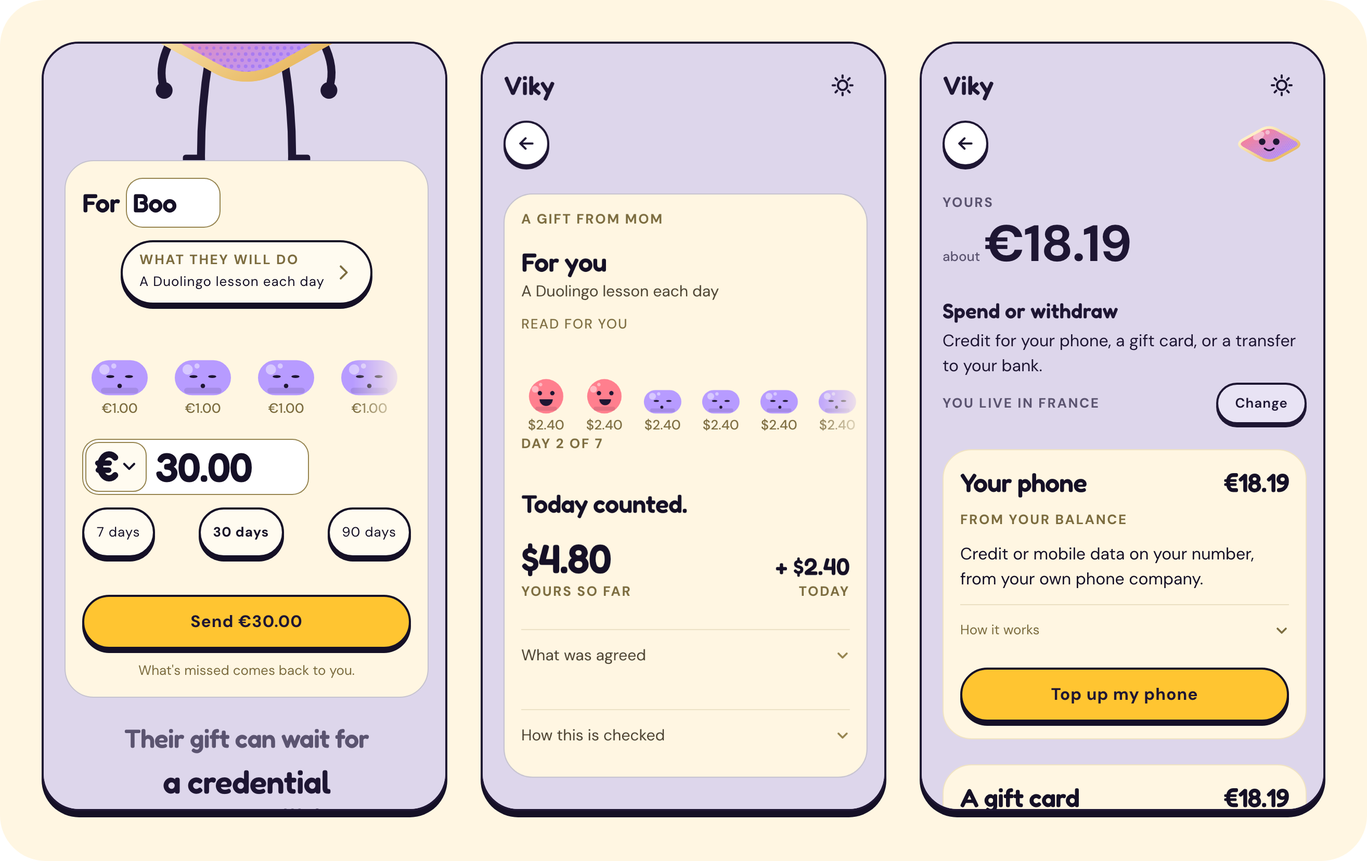
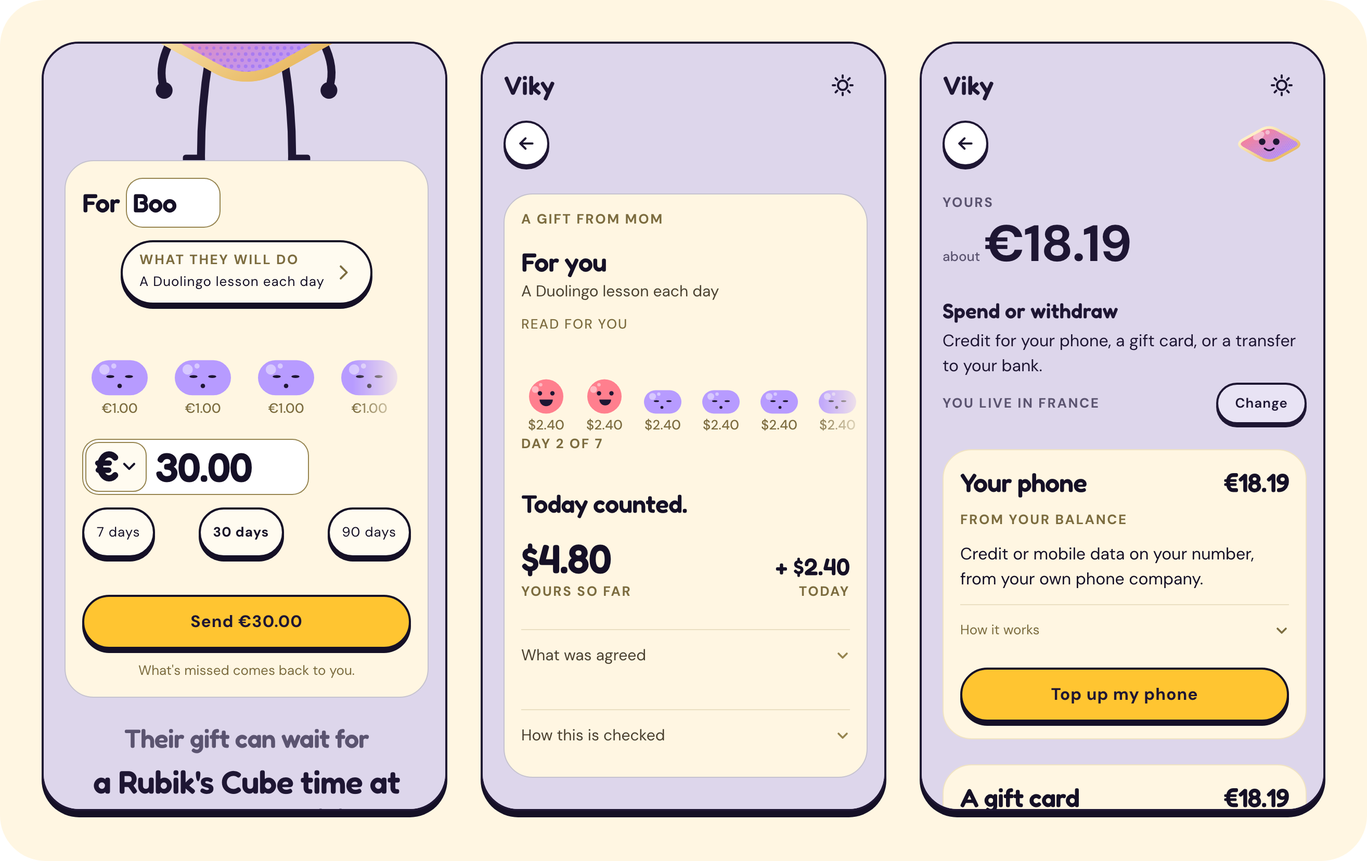
Name no account and no person in notes and live scripts, cite this history's own commits, and photograph the README's screens again

diff --git a/scripts/check-sources.ts b/scripts/check-sources.ts
@@ -27,11 +27,12 @@ import { listWcaCompetitions, readWcaCompetition, readWcaResult } from "../src/w
  *
  * It moves no money, signs nothing and needs no secret. It reads public pages as the app does, naming itself.
  *
- * The accounts that exist: this file names only public profiles this repository already names. A source whose only
- * real pages are one person's own certificate takes its sample from `private-fixtures/check-sources.json`, which is
- * never committed (`{ "det": "<certificate id>", "edx": "...", "mitx": "...", "credly": "...", "accredible": "...",
- * "coursera": "...", "breizh": "<event|heat|bib>", "raceresult": "<event|contest|bib>" }`); without one, that
- * source's `reads` and `patterns` are skipped and said so, and its `refuses` still runs.
+ * The accounts that exist: this file names nobody. Every source takes its sample from
+ * `private-fixtures/check-sources.json`, which is never committed (`{ "chess": "<name>", "codeforces": "<handle>",
+ * "duolingo": "<name>", "wca": "<competition|event|WCA ID>", "det": "<certificate id>", "edx": "...", "mitx": "...",
+ * "credly": "...", "accredible": "...", "coursera": "...", "breizh": "<event|heat|bib>",
+ * "raceresult": "<event|contest|bib>" }`); without one, that source's `reads` and `patterns` are skipped and said
+ * so, and its `refuses` still runs.
  *
  * Usage: pnpm check:sources            every source
  *        pnpm check:sources chess,wca  some of them
@@ -115,34 +116,39 @@ const wants = (name: string) => !asked || asked.includes(name);
 
 async function main() {
   if (wants("chess")) {
-    // Public profiles this repository already names (src/chess-com.ts, src/chess-reading.ts).
-    for (const climb of ["rapid", "blitz", "bullet", "daily", "tactics"] as const) {
-      await reads("chess", `ama_plays's ${climb} standing`, () => readChessStanding("ama_plays", climb));
-      await sleep(400);
-    }
+    if (samples.chess) {
+      for (const climb of ["rapid", "blitz", "bullet", "daily", "tactics"] as const) {
+        await reads("chess", `a player's ${climb} standing`, () => readChessStanding(samples.chess, climb));
+        await sleep(400);
+      }
+      await patterns("chess-profile", samples.chess);
+      await patterns("chess-player", samples.chess);
+      for (const mode of ["rapid", "blitz", "bullet", "daily"]) await patterns(`chess-ratings-${mode}`, samples.chess);
+      await patterns("chess-tactics", samples.chess);
+    } else skip("chess", "reads and patterns");
     await refuses("chess", "a player nobody is", ["PROFILE_NOT_FOUND"], () => readChessStanding("zzqxnobody12345", "rapid"));
-    await patterns("chess-profile", "ama_plays", "ama_plays");
-    await patterns("chess-player", "ama_plays", "ama_plays");
-    for (const mode of ["rapid", "blitz", "bullet", "daily"]) await patterns(`chess-ratings-${mode}`, "ama_plays", "ama_plays");
-    await patterns("chess-tactics", "ama_plays", "ama_plays");
   }
   if (wants("codeforces")) {
-    await reads("codeforces", "ada_codes's standing", () => readCodeforcesStanding("ada_codes"));
-    await sleep(2_200);
+    if (samples.codeforces) {
+      await reads("codeforces", "a handle's standing", () => readCodeforcesStanding(samples.codeforces));
+      await sleep(2_200);
+      await patterns("codeforces-user", samples.codeforces);
+      await sleep(2_200);
+      await patterns("codeforces-user-named", samples.codeforces);
+      await sleep(2_200);
+    } else skip("codeforces", "reads and patterns");
     await refuses("codeforces", "a handle nobody has", ["PROFILE_NOT_FOUND"], () => readCodeforcesStanding("zzqxnobody12345"));
-    await sleep(2_200);
-    await patterns("codeforces-user", "ada_codes", "ada_codes");
-    await sleep(2_200);
-    await patterns("codeforces-user-named", "ada_codes", "ada_codes");
   }
   if (wants("duolingo")) {
-    await reads("duolingo", "zia_learns's public profile", async () => {
-      const profile = await resolvePublicDuolingoProfile("Zia_learns");
-      if (!profile) throw new Error("no profile answered for a name that exists");
-      return profile;
-    });
+    if (samples.duolingo) {
+      await reads("duolingo", "a public profile", async () => {
+        const profile = await resolvePublicDuolingoProfile(samples.duolingo);
+        if (!profile) throw new Error("no profile answered for a name that exists");
+        return profile;
+      });
+      await patterns("duolingo-profile", samples.duolingo);
+    } else skip("duolingo", "reads and patterns");
     await refuses("duolingo", "a name nobody has", ["NO_SUCH_PROFILE"], () => resolvePublicDuolingoProfile("zzqx-nobody-12345"));
-    await patterns("duolingo-profile", "Zia_learns", "Zia_learns");
   }
   if (wants("det")) {
     if (samples.det) {
@@ -189,10 +195,13 @@ async function main() {
     await refuses("accredible", "a credential nobody holds", ["NO_CERTIFICATE", "INVALID_LINK"], () => readAccredibleCredential("00000000-0000-4000-8000-000000000000"));
   }
   if (wants("wca")) {
-    // The competition and the result this repository's own source description was measured on (src/attested-sources.ts).
-    await reads("wca", "a competition", () => readWcaCompetition("SaintSymphorienSpeedcubing2026"));
-    await reads("wca", "a result at it", () => readWcaResult("SaintSymphorienSpeedcubing2026/333", "2019EXEM04"));
-    await patterns("wca-person-results", "2019EXEM04|SaintSymphorienSpeedcubing2026|333|f", "that result");
+    // A competition, an event and somebody who took part in it, as the sample writes them: "<competition>|<event>|<WCA ID>".
+    const [competition, event, cuber] = (samples.wca ?? "").split("|");
+    if (competition && event && cuber) {
+      await reads("wca", "a competition", () => readWcaCompetition(competition));
+      await reads("wca", "a result at it", () => readWcaResult(`${competition}/${event}`, cuber));
+      await patterns("wca-person-results", `${cuber}|${competition}|${event}|f`, "that result");
+    } else skip("wca", "reads and patterns of a result");
     await reads("wca", "the competitions to come", async () => {
       const coming = await listWcaCompetitions(new Date().toISOString().slice(0, 10));
       if (coming.length === 0) throw new Error("the list of coming competitions is empty");

diff --git a/test/chess-reading.test.ts b/test/chess-reading.test.ts
@@ -86,7 +86,7 @@ test("a proof about another page, another name, or taken far from its other half
 });
 
 test("zkFetch's refusals, as measured, become the right typed refusal", async () => {
-  // The three messages read on 17 Sep 2026 against uma_plays, an unknown name, and uma_plays's blitz.
+  // The three messages read on 17 Sep 2026 against an account that exists, an unknown name, and that account's blitz.
   const notFound = "protocol terminated with error: HTTP response status 404 is not a success status: received HTTP 404, expected 2xx";
   const noName = `attestor submission failed: failed to submit TEE bundle: failed to send request: RPC request failed: Invalid receipt. Regex "${CHESS_PROFILE.matches[2].value}" didn't match (code: 1)`;
   const noBlitz = `attestor submission failed: failed to submit TEE bundle: failed to send request: RPC request failed: Invalid receipt. Regex "${chessRatingPattern("blitz")}" didn't match (code: 1)`;
@@ -133,7 +133,7 @@ test("the plain read answers who and where, and says which failure it met", asyn
     "https://api.chess.com/pub/player/uma_plays/stats": { status: 200, body: { chess_rapid: { last: { rating: 1705, date: 1775022187 } }, fide: 0 } },
     "https://api.chess.com/pub/player/nobody-zz9": { status: 404, body: { code: 0, message: "User not found." } },
     "https://api.chess.com/pub/player/flaky-zz9": { status: 200, body: { player_id: 7, username: "flaky-zz9", status: "premium" } },
-    // Measured on 18 Sep 2026: ivo_plays answers 200 with status "closed", and its ratings page answers as any other.
+    // Measured on 18 Sep 2026: a closed account answers 200 with status "closed", and its ratings page answers as any other.
     "https://api.chess.com/pub/player/ivo_plays": { status: 200, body: { player_id: 990000000002, username: "ivo_plays", status: "closed" } },
     "https://api.chess.com/pub/player/ivo_plays/stats": { status: 200, body: { chess_rapid: { last: { rating: 990, date: 1620668644, rd: 105 } } } },
     "https://api.chess.com/pub/player/unfair-zz9": { status: 200, body: { player_id: 5, username: "unfair-zz9", status: "closed:fair_play_violations" } },
@@ -161,7 +161,7 @@ test("the plain read answers who and where, and says which failure it met", asyn
 test("an account Chess.com has closed is refused, and a profile without a status is a reading that failed on our side", async () => {
   // Chess.com documents six values for `status` ("closed, closed:fair_play_violations, basic, premium, mod, staff") and
   // its Fair Play policy says it may "close your account and label it publicly closed for Fair Play violations".
-  // Measured on 18 Sep 2026: ama_plays premium, yan_plays staff, SevyB basic, ivo_plays closed.
+  // Measured on 18 Sep 2026 on four accounts: one premium, one staff, one basic, one closed.
   assert.equal(accountIsClosed("basic"), false);
   assert.equal(accountIsClosed("premium"), false);
   assert.equal(accountIsClosed("staff"), false);
@@ -238,7 +238,7 @@ test("the register's name check is Chess.com's own rule, and the milestone half 
 
 test("a rating has settled below the RD measured on 17 Sep 2026, and not at it, nor without an RD (D90)", () => {
   assert.equal(CHESS_SETTLED_RD_BELOW, 60);
-  // Low: ama_plays's blitz, 31. High: a new account, 350 as Chess.com starts one; uma_plays's rapid, 197. None: never played.
+  // Low: a much played blitz, 31. High: a new account, 350 as Chess.com starts one; a little played rapid, 197. None: never played.
   assert.equal(ratingHasSettled(31), true);
   assert.equal(ratingHasSettled(59), true);
   assert.equal(ratingHasSettled(60), false);

diff --git a/src/chess-com.ts b/src/chess-com.ts
@@ -11,7 +11,7 @@ import { keccak256, stringToHex, type Hex } from "viem";
  *   name is the field a person edits, so it is where a binding code goes, as on Duolingo. `player_id` does not change
  *   when a username does, so it is the identity a gift is bound to.
  * - `/pub/player/{name}/stats` carries one block per cadence, `"chess_rapid":{"last":{"rating":1904,"date":...}}`,
- *   in no fixed order (ama_plays's begins with daily, ida_plays's with rapid), and a cadence never played has no
+ *   in no fixed order (one account's begins with daily, another's with rapid), and a cadence never played has no
  *   block at all. So a reading names its cadence in its own pattern; a pattern for "any cadence" returns whichever
  *   comes first, which would let a bullet rating settle a rapid gift.
  * - An unknown name answers 404 with a JSON message. A mixed-case name answers 301 to the lower-case one.
@@ -27,10 +27,10 @@ export function isChessMode(value: unknown): value is ChessMode {
 
 /**
  * The puzzle rating, which is on the same page and is not a cadence: no game is played against anybody, and the
- * number is a person's own record. Measured on 20 Sep 2026 on sevyb, ama_plays, ida_plays and yan_plays: the block is
+ * number is a person's own record. Measured on 20 Sep 2026 on four accounts, the founder's own among them: the block is
  * `"tactics":{"highest":{"rating":2096,"date":1760495253},"lowest":{"rating":1795,"date":...}}`, carrying no `last`
  * and no RD at all. `highest` is the best that account ever reached and never goes down, so the climb it holds is
- * "beat your own record": yan_plays 2096 against a lowest of 1795, ama_plays 2730 held since 2014, ida_plays the 400 an
+ * "beat your own record": one account at 2096 against a lowest of 1795, one at 2730 held since 2014, one at the 400 an
  * account starts at. A person who never solved a puzzle is refused rather than read as nothing.
  */
 export const CHESS_TACTICS = "tactics";
@@ -108,7 +108,7 @@ export function chessClimbPattern(climb: ChessClimb): string {
  * The account's standing with Chess.com itself, which the profile publishes as `status`. Chess.com documents the six
  * values ("closed, closed:fair_play_violations, basic, premium, mod, staff") and its Fair Play policy says what a
  * closed one can mean: "we may close your account and label it publicly closed for Fair Play violations". Measured on
- * 18 Sep 2026: ama_plays premium, ida_plays premium, oda_plays premium, yan_plays staff, SevyB basic, ivo_plays closed.
+ * 18 Sep 2026 on six accounts: three premium, one staff, one basic (the founder's own) and one closed.
  * A closed account still serves its profile and its ratings, so the status is the only thing that says so.
  */
 export function chessStatusPattern(): string {
@@ -216,7 +216,7 @@ export function ratingOfStats(body: unknown, mode: ChessMode): ChessClimbReading
   const { rating, date, rd } = last as Record<string, unknown>;
   if (typeof rating !== "number" || !Number.isSafeInteger(rating) || rating <= 0) return null;
   // `best` is a block of its own beside `last`, and a young account has none: measured on 17 Sep 2026, SevyB had a
-  // rapid rating and no best at all, while ida_plays, uma_plays and sol_plays had one in every cadence they played.
+  // rapid rating and no best at all, while three older accounts had one in every cadence they played.
   const best = (block as Record<string, unknown>).best;
   const bestRating = best && typeof best === "object" ? (best as Record<string, unknown>).rating : undefined;
   return {

diff --git a/test/attested-sources.test.ts b/test/attested-sources.test.ts
@@ -70,14 +70,14 @@ test("the patterns match what those pages actually answer", () => {
   for (const m of CHESS_PLAYER.matches) assert.match(noName, new RegExp(m.value), m.value);
   assert.equal(CHESS_PROFILE.matches.every((m) => new RegExp(m.value).test(noName)), false, "a binding needs a name to hold the code");
 
-  // ivo_plays, an account Chess.com has closed, read on 18 Sep 2026: the same shape, and the status says so (U1).
+  // An account Chess.com has closed, read on 18 Sep 2026: the same shape, and the status says so (U1).
   const closed =
     '{"avatar":"https://images.chesscomfiles.com/uploads/v1/user/0.00000000.200x200o.000000000000.gif","player_id":990000000002,"@id":"https://api.chess.com/pub/player/ivo_plays","url":"https://www.chess.com/member/Ivo_plays","username":"ivo_plays","followers":0,"country":"https://api.chess.com/pub/country/NL","last_online":1620662445,"joined":1462908315,"status":"closed","is_streamer":false,"verified":false,"streaming_platforms":[]}';
   for (const m of CHESS_PLAYER.matches) assert.match(closed, new RegExp(m.value), m.value);
   assert.equal(new RegExp(chessStatusPattern()).exec(closed)?.groups?.status, "closed");
   assert.equal(new RegExp(chessStatusPattern()).exec(chessProfile)?.groups?.status, "staff");
 
-  // ama_plays's page lists daily first, then rapid, bullet and blitz. Each cadence must read its own block.
+  // One account's page lists daily first, then rapid, bullet and blitz. Each cadence must read its own block.
   const chessStats =
     '{"chess_daily":{"last":{"rating":2239,"date":1770563021,"rd":103}},"chess960_daily":{"last":{"rating":1231,"date":1444458214,"rd":230}},"chess_rapid":{"last":{"rating":2838,"date":1786796329,"rd":44}},"chess_bullet":{"last":{"rating":3403,"date":1789235988,"rd":30}},"chess_blitz":{"last":{"rating":3410,"date":1789613471,"rd":31}}}';
   const read = (mode: keyof typeof CHESS_RATINGS) => new RegExp(CHESS_RATINGS[mode].matches[0].value).exec(chessStats)?.groups;

diff --git a/test/chess-tactics.test.ts b/test/chess-tactics.test.ts
@@ -15,13 +15,13 @@ import { SHAPE_CLIMB } from "../src/milestone-protocol";
  * The puzzle record on Chess.com: a climb read from the same page as the ratings, with no cadence to choose and no
  * RD to settle (the founder's line of 20 Sep 2026).
  *
- * Every shape below was measured the same day on api.chess.com, on sevyb, ama_plays, ida_plays and yan_plays. What the
+ * Every shape below was measured the same day on api.chess.com, on four accounts. What the
  * tests are really guarding is the one way this reading could pay the wrong number: the block carries two ratings,
  * the record and the lowest the account ever fell to, and a pattern that could match either would let the second
  * settle a gift made on the first.
  */
 
-/** yan_plays's stats page on 20 Sep 2026, the fragment this reading is about, with what surrounds it on the page. */
+/** One account's stats page on 20 Sep 2026, the fragment this reading is about, with what surrounds it on the page. */
 const YAN_PLAYS =
   '{"chess_daily":{"last":{"rating":1502,"date":1789854578,"rd":63},"best":{"rating":2065,"date":1256228875}},' +
   '"chess_rapid":{"last":{"rating":1904,"date":1764957051,"rd":80}},' +
@@ -58,7 +58,7 @@ function honest(record: Record<string, string> = { rating: "2096", date: "176049
 test("the record is read from the block that holds it, and the lowest rating can never come out instead", () => {
   const pattern = new RegExp(chessTacticsPattern());
   const found = pattern.exec(YAN_PLAYS);
-  assert.equal(found?.groups?.rating, "2096", "the record yan_plays held on 20 Sep 2026");
+  assert.equal(found?.groups?.rating, "2096", "the record that account held on 20 Sep 2026");
   assert.equal(found?.groups?.date, "1760495253");
   // The same page, with the two halves of the block the other way round: a reading anchored on `highest` finds
   // nothing rather than handing over the 1795 the account once fell to.

diff --git a/scripts/measure-chess-rd.ts b/scripts/measure-chess-rd.ts
@@ -7,15 +7,14 @@
  * gives now, and the size of the rating changes over its most recent rated games, read from the monthly game archives
  * (each game carries the player's rating after it). Read only, public pages, one request at a time.
  *
- * Usage: npx tsx scripts/measure-chess-rd.ts [extra usernames...]
+ * Usage: npx tsx scripts/measure-chess-rd.ts [usernames...]
  */
 
 import { CHESS_MODES, type ChessMode } from "../src/chess-com";
 
 const UA = "Viky/1.0 (+https://viky.cash)";
 const API = "https://api.chess.com/pub";
-/** The names read on 17 Sep 2026: players of every level named in D88, then accounts from Luxembourg's public list. */
-const NAMED = ["ama_plays", "ida_plays", "oda_plays", "yan_plays", "john", "abc", "uma_plays"];
+/** Read on 17 Sep 2026: seven accounts of every level, given on the command line, then accounts from Luxembourg's public list. */
 const SAMPLED_FROM_COUNTRY = "LU";
 const SAMPLE_SIZE = 40;
 const RECENT_GAMES = 20;
@@ -90,7 +89,7 @@ async function main() {
   // Every n-th name of the list, so the sample is spread over it and the same on every run.
   const step = Math.max(1, Math.floor(country.length / SAMPLE_SIZE));
   const sampled = country.filter((_, index) => index % step === 0).slice(0, SAMPLE_SIZE);
-  const names = [...NAMED, ...extra, ...sampled];
+  const names = [...extra, ...sampled];
   console.log(`measured ${new Date().toISOString()}, ${names.length} profiles (${sampled.length} from ${SAMPLED_FROM_COUNTRY}'s list of ${country.length})`);
   console.log("username\tjoined\tcadence\tgames\trd\trating\tlast game\tdeltas\tmedian |change|\tmax |change|");
   for (const username of names) {

diff --git a/src/attested-sources.ts b/src/attested-sources.ts
@@ -145,7 +145,7 @@ export const CHESS_PLAYER: AttestedSource = {
 
 /**
  * Chess.com's public ratings, one reading per cadence. The page lists its cadences in no fixed order, so a single
- * pattern for "any cadence" returned whichever came first: `daily` for ama_plays, `rapid` for ida_plays, measured on
+ * pattern for "any cadence" returned whichever came first: `daily` for one account, `rapid` for another, measured on
  * 17 Sep 2026. Each cadence is therefore its own source with its own pattern, and the goal type of a gift names one.
  */
 function chessRatings(mode: ChessMode): AttestedSource {
@@ -450,7 +450,7 @@ export const RACE_RESULT_ROW: AttestedSource = {
 /**
  * A speedcuber's results on the World Cube Association's public API (the founder, 27 Sep 2026: "Set a time at a WCA
  * competition"), measured on Saint Symphorien 2026 on 26 Sep 2026. The account is the person's WCA id, the
- * competition, the event and the round, `2019EXEM04|SaintSymphorienSpeedcubing2026|333|f`: the page is the person's
+ * competition, the event and the round, as `2019EXEM04|SaintSymphorienSpeedcubing2026|333|f` with an id nobody has: the page is the person's
  * own list of results, and the one pattern, built for the account, takes the row of that competition, that event and
  * that round in the order the API prints its keys, with the best single, the average and the name as it prints them
  * (a time in hundredths of a second, -1 for a DNF). The API answers 403 to a bare user agent and 200 to one that

diff --git a/test/milestone-routes.test.ts b/test/milestone-routes.test.ts
@@ -120,7 +120,7 @@ test("the standing route refuses a cadence it does not know before reading anyth
   assert.equal(((await response.json()) as { code: string }).code, "INVALID_MODE");
 });
 
-/** Chess.com's two pages for yan_plays, as the plain read before any relay gets them, with the rapid RD given. */
+/** Chess.com's two pages for one account, as the plain read before any relay gets them, with the rapid RD given. */
 function chessPages(rapid: { rating: number; date: number; rd: number } | null): typeof fetch {
   return (async (input: string | URL | Request) => {
     const url = String(input instanceof Request ? input.url : input);
@@ -132,7 +132,7 @@ function chessPages(rapid: { rating: number; date: number; rd: number } | null):
 
 test("the standing route refuses an account Chess.com has closed, before any money moves (U1)", async () => {
   const realFetch = globalThis.fetch;
-  // Measured on 18 Sep 2026: ivo_plays answers 200 with status "closed", and its ratings page answers as any other.
+  // Measured on 18 Sep 2026: a closed account answers 200 with status "closed", and its ratings page answers as any other.
   globalThis.fetch = (async (input: string | URL | Request) => {
     const url = String(input instanceof Request ? input.url : input);
     if (url === "https://api.chess.com/pub/player/ivo_plays") return new Response(JSON.stringify({ player_id: 990000000002, username: "ivo_plays", status: "closed" }), { status: 200 });

diff --git a/scripts/marathon-rehearse.ts b/scripts/marathon-rehearse.ts
@@ -9,14 +9,15 @@ import { SHAPE_HAVE_OR_NOT } from "../src/milestone-protocol";
  * result, with everything else stood in for. The reading service reads the runner's page through the attested fetch,
  * exactly as production does; the gift, its state and the relay are fakes that print what they would have received.
  *
- *   NAME="Sam Example" BIB=900347 RACE=dakar-2023/marathon pnpm exec tsx scripts/marathon-rehearse.ts
+ *   NAME="<the runner, as the result prints them>" BIB=<their bib> RACE=dakar-2023/marathon pnpm exec tsx scripts/marathon-rehearse.ts
  *
  * Nothing moves: the "relay" prints the EIP-712 message it would have sent and returns a made-up hash, and the
  * "record" prints the reading line. Proof (c), a test payment that goes, is the same path with the real gift.
  */
 async function main() {
-  const name = process.env.NAME?.trim() || "Sam Example";
-  const bib = process.env.BIB?.trim() || "900347";
+  const name = process.env.NAME?.trim();
+  const bib = process.env.BIB?.trim();
+  if (!name || !bib) throw new Error("NAME and BIB say whose public result is read: the runner as the result prints them, and their bib");
   const courseId = process.env.RACE?.trim() || "dakar-2023/marathon";
   const found = marathonEventById(courseId);
   if (!found) throw new Error(`no race ${courseId}`);

diff --git a/app/components/MilestoneJudges.tsx b/app/components/MilestoneJudges.tsx
@@ -127,7 +127,7 @@ export function MilestoneJudges() {
           a gift nor reach a target, and the whole amount goes back to the funder at the deadline, exactly as for a target not reached. The
           standing is on the same public profile, in the documented field &quot;status&quot; (closed, closed:fair_play_violations, basic, premium,
           mod, staff), and the policy says Chess.com &quot;may close your account and label it publicly closed for Fair Play violations&quot;. It is
-          read on every reading, plain and attested. Measured that day: ama_plays premium, yan_plays staff, SevyB basic, ivo_plays closed. A profile whose
+          read on every reading, plain and attested. Measured that day on four accounts: one premium, one staff, one basic, one closed. A profile whose
           status cannot be read is a reading that failed on our side: nothing is paid and nothing is taken back that day.
         </li>
       </ul>

diff --git a/src/chess-reading.ts b/src/chess-reading.ts
@@ -138,7 +138,7 @@ function chessError(error: unknown, ratingPattern: string, namePattern: string, 
       return new ChessReadError("INVALID_USERNAME", "That is not a Chess.com name", { cause: error });
     case "NOT_FOUND":
       // Only the profile says who exists. The ratings page of a player whose profile was just read also answers 404, with
-      // "An internal error has occurred" (yan_plays, 17 Sep 2026 15:50 UTC, while ama_plays's answered): that is Chess.com failing,
+      // "An internal error has occurred" (one account, 17 Sep 2026 15:50 UTC, while another's answered): that is Chess.com failing,
       // not the player missing, and it must never tell a recipient their account is gone.
       return half === "profile"
         ? new ChessReadError("PROFILE_NOT_FOUND", "No Chess.com player goes by that name", { cause: error })

diff --git a/scripts/rehearse-v2-fork.ts b/scripts/rehearse-v2-fork.ts
@@ -386,7 +386,8 @@ async function main() {
   expect((await anchored(giftId)) === 1n && /^0x[0-9a-f]{64}$/.test((await consentHistory(giftId))[0].anchorTx ?? ""), "the yes is on the anchor, and its row names the transaction");
 
   console.log("STEP 4b: two milestone gifts made and opened on the second version");
-  const player = process.env.REHEARSAL_PLAYER?.trim() || "ida_plays";
+  const player = process.env.REHEARSAL_PLAYER?.trim();
+  if (!player) throw new Error("REHEARSAL_PLAYER names the public Chess.com account to read: any with a settled rating in the cadence");
   const cadence = (process.env.REHEARSAL_CADENCE?.trim() || "bullet") as ChessMode;
   const standing = await readChessStanding(player, cadence);
   if (standing.rating === null || standing.rd === null || standing.rd >= CHESS_SETTLED_RD_BELOW) {
